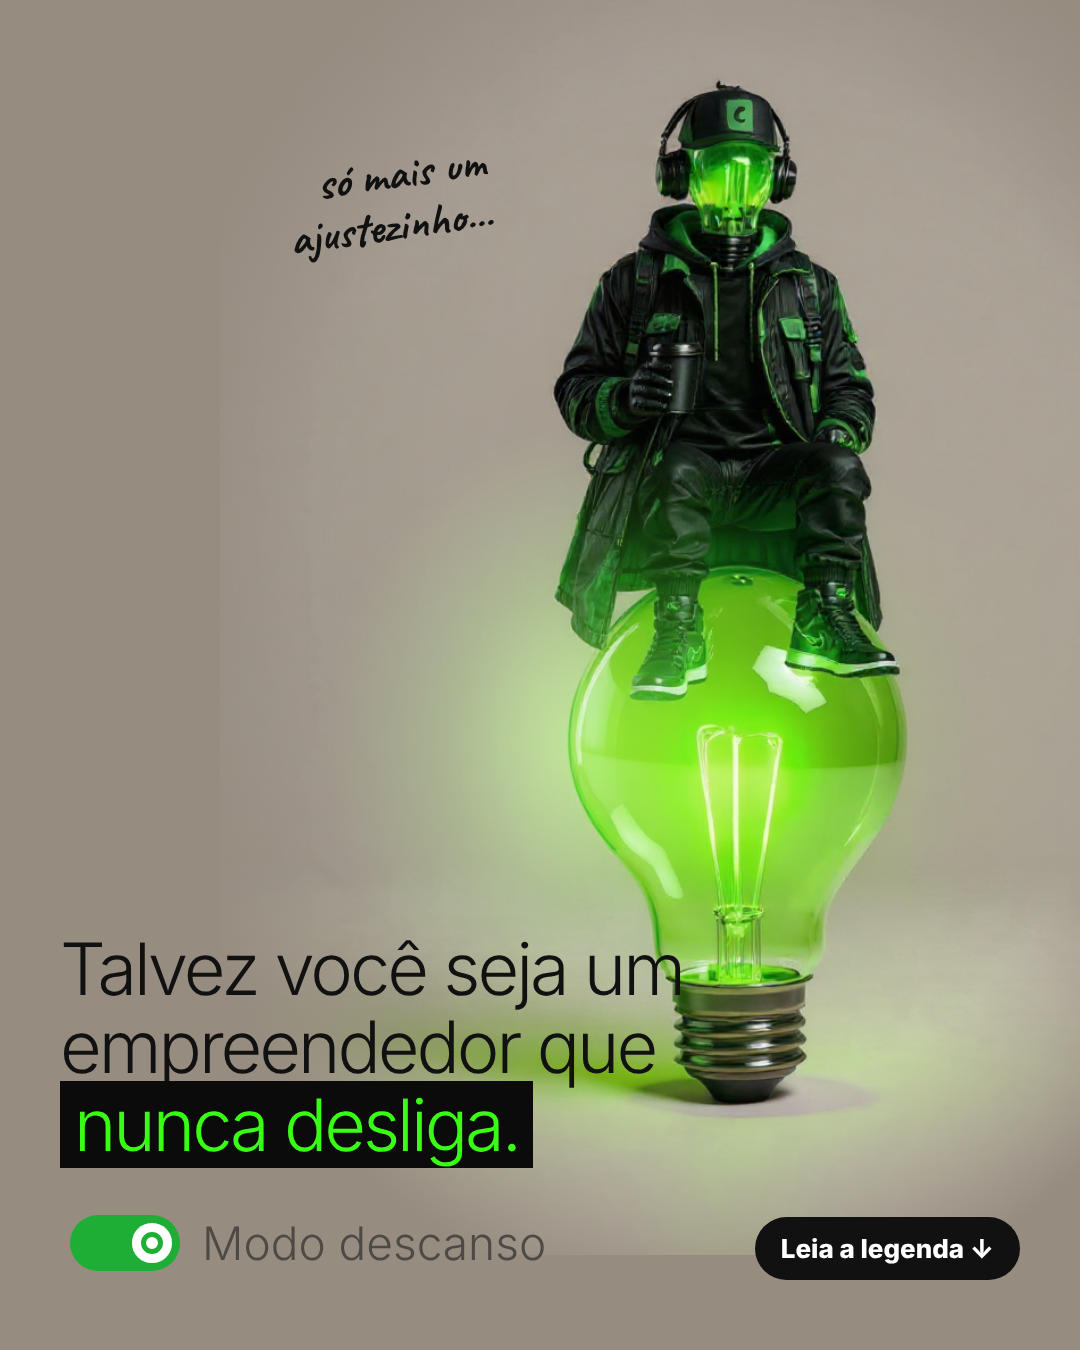
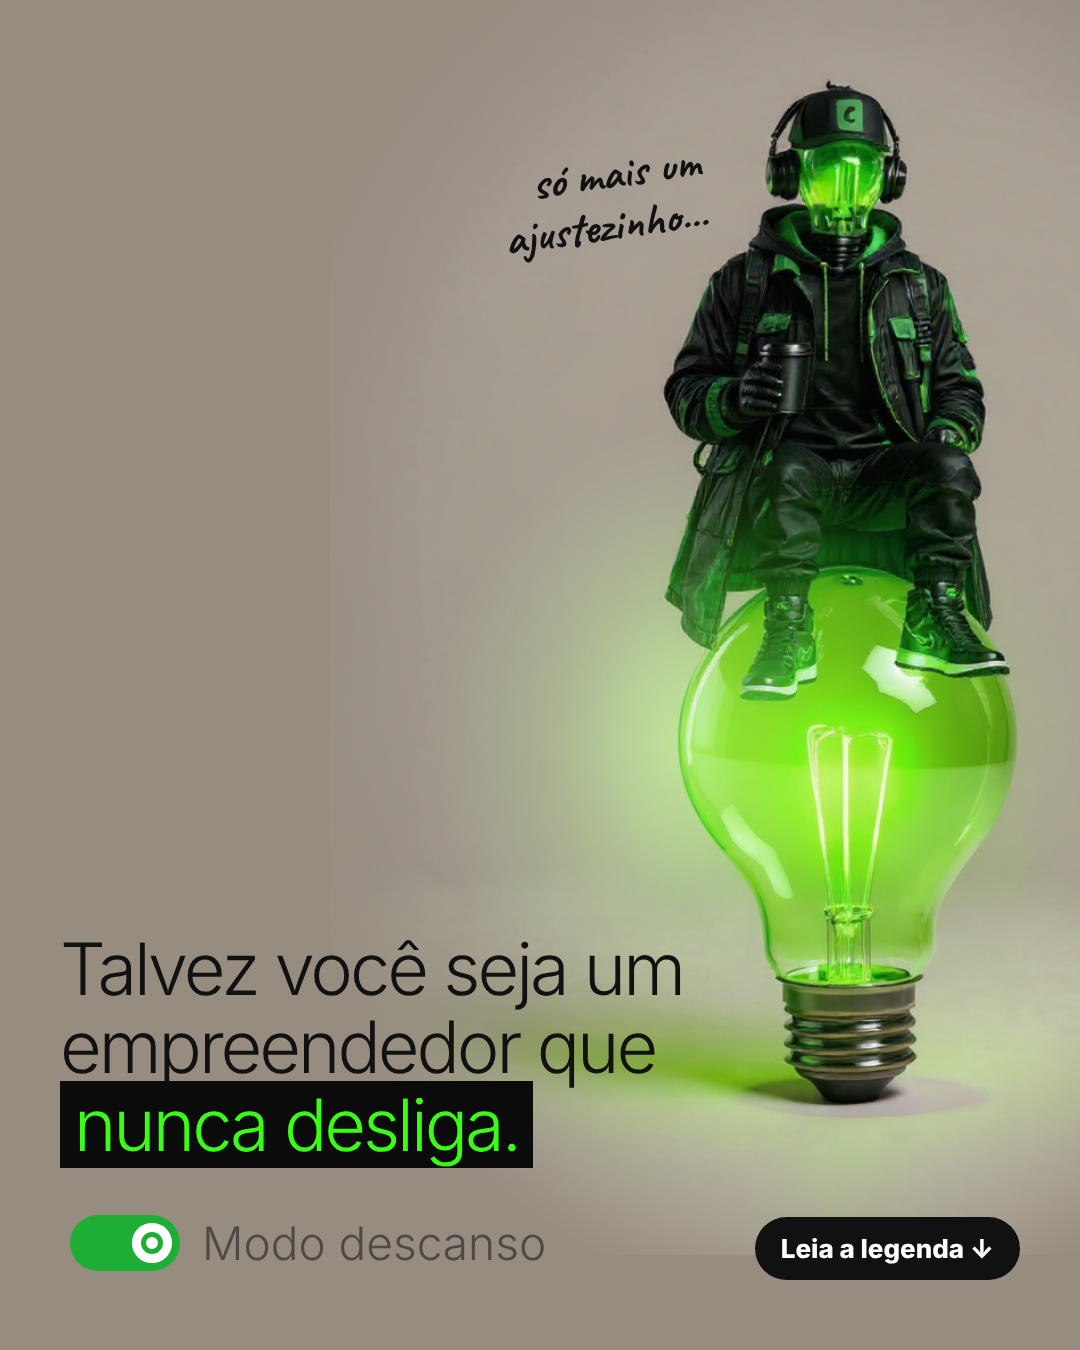
Feed estático: 4ª rodada 24, 25, 28
Claude-Session: https://claude.ai/code/session_017mkQW4f9RfZB1iSbiGkvms

Changed region(s): [[0.275, 0.0622, 0.9472, 0.84], [0.9167, 0.7467, 1.0, 0.84]]

diff --git a/banco/tpl-estatico/layout-24.html b/banco/tpl-estatico/layout-24.html
@@ -4,8 +4,8 @@
 body{margin:0}#s{width:1080px;height:1350px;position:relative;overflow:hidden;background:#e9eae8}
 .bg{position:absolute;inset:0;width:100%;height:100%;object-fit:cover}
 .tp{position:absolute;width:1800px;background:#18e0ff;display:flex;align-items:center;overflow:hidden;white-space:nowrap;box-shadow:0 8px 24px rgba(0,0,0,.25);
- background-image:repeating-linear-gradient(135deg,transparent 0 380px,#0b0b0b 380px 390px)}
+ background-image:repeating-linear-gradient(90deg,transparent 0 420px,#0b0b0b 420px 436px)}
 .tp span{font-family:A;color:#0b0b0b;letter-spacing:1px;padding-left:30px}
-.cta{position:absolute;left:50%;transform:translateX(-50%);bottom:50px;font:800 26px I8;padding:16px 26px;border-radius:40px;white-space:nowrap;z-index:9;background:#0b0b0b;color:#fff}
+.cta{position:absolute;left:50%;transform:translateX(-50%);bottom:50px;font:800 26px I8;padding:16px 26px;border-radius:40px;white-space:nowrap;z-index:9;background:#fff;color:#0b0b0b}
 </style></head><body><div id=s><img class=bg src="c24d.png" style="z-index:0"><div class=tp style="top:80px;left:-300px;transform:rotate(-22deg);height:60px;z-index:1"><i></i><span style="font-size:40px">ACESSO NEGADO&nbsp;&nbsp;✕&nbsp;&nbsp;ACESSO NEGADO&nbsp;&nbsp;✕&nbsp;&nbsp;ACESSO NEGADO&nbsp;&nbsp;✕&nbsp;&nbsp;ACESSO NEGADO&nbsp;&nbsp;✕&nbsp;&nbsp;ACESSO NEGADO&nbsp;&nbsp;✕&nbsp;&nbsp;ACESSO NEGADO&nbsp;&nbsp;✕&nbsp;&nbsp;ACESSO NEGADO&nbsp;&nbsp;✕&nbsp;&nbsp;ACESSO NEGADO&nbsp;&nbsp;✕&nbsp;&nbsp;</span></div><div class=tp style="top:330px;left:-200px;transform:rotate(18deg);height:70px;z-index:1"><i></i><span style="font-size:46px">ACESSO NEGADO&nbsp;&nbsp;✕&nbsp;&nbsp;ACESSO NEGADO&nbsp;&nbsp;✕&nbsp;&nbsp;ACESSO NEGADO&nbsp;&nbsp;✕&nbsp;&nbsp;ACESSO NEGADO&nbsp;&nbsp;✕&nbsp;&nbsp;ACESSO NEGADO&nbsp;&nbsp;✕&nbsp;&nbsp;ACESSO NEGADO&nbsp;&nbsp;✕&nbsp;&nbsp;ACESSO NEGADO&nbsp;&nbsp;✕&nbsp;&nbsp;ACESSO NEGADO&nbsp;&nbsp;✕&nbsp;&nbsp;</span></div><div class=tp style="top:620px;left:-300px;transform:rotate(-12deg);height:58px;z-index:1"><i></i><span style="font-size:38px">ACESSO NEGADO&nbsp;&nbsp;✕&nbsp;&nbsp;ACESSO NEGADO&nbsp;&nbsp;✕&nbsp;&nbsp;ACESSO NEGADO&nbsp;&nbsp;✕&nbsp;&nbsp;ACESSO NEGADO&nbsp;&nbsp;✕&nbsp;&nbsp;ACESSO NEGADO&nbsp;&nbsp;✕&nbsp;&nbsp;ACESSO NEGADO&nbsp;&nbsp;✕&nbsp;&nbsp;ACESSO NEGADO&nbsp;&nbsp;✕&nbsp;&nbsp;ACESSO NEGADO&nbsp;&nbsp;✕&nbsp;&nbsp;</span></div><img class=bg src="c24d-cut.png" style="z-index:3"><div class=tp style="top:1000px;left:-260px;transform:rotate(12deg);height:130px;z-index:5"><i></i><span style="font-size:96px">ACESSO NEGADO&nbsp;&nbsp;✕&nbsp;&nbsp;ACESSO NEGADO&nbsp;&nbsp;✕&nbsp;&nbsp;ACESSO NEGADO&nbsp;&nbsp;✕&nbsp;&nbsp;ACESSO NEGADO&nbsp;&nbsp;✕&nbsp;&nbsp;ACESSO NEGADO&nbsp;&nbsp;✕&nbsp;&nbsp;ACESSO NEGADO&nbsp;&nbsp;✕&nbsp;&nbsp;ACESSO NEGADO&nbsp;&nbsp;✕&nbsp;&nbsp;ACESSO NEGADO&nbsp;&nbsp;✕&nbsp;&nbsp;</span></div>
-<div class=cta>Leia a legenda <span style="color:#18e0ff">↓</span></div></div></body></html>
+<div class=cta>Leia a legenda ↓</div></div></body></html>

diff --git a/banco/tpl-estatico/layout-25.html b/banco/tpl-estatico/layout-25.html
@@ -16,9 +16,9 @@ body{margin:0}#s{width:1080px;height:1350px;position:relative;overflow:hidden;ba
 .t b{font-weight:400;color:#39ff14;background:#0b0b0b;padding:0 14px;-webkit-box-decoration-break:clone}
 .tg{position:absolute;left:70px;top:1215px;display:flex;align-items:center;gap:22px;font:300 46px IL;color:#4d4945}
 .sw{width:110px;height:56px;border-radius:30px;background:#1fae35;position:relative}.sw:after{content:'';position:absolute;right:8px;top:8px;width:40px;height:40px;border-radius:50%;background:#fff;box-shadow:inset 0 0 0 9px #fff,inset 0 0 0 14px #1fae35}
-.sc{position:absolute;left:285px;top:150px;font:700 46px/1.1 CA;color:#111;transform:rotate(-8deg);text-align:right}
+.sc{position:absolute;left:500px;top:150px;font:700 46px/1.1 CA;color:#111;transform:rotate(-8deg);text-align:right;z-index:5}
 .cta{background:#111;color:#fff;left:auto;right:60px;transform:none;bottom:70px}
-</style></head><body><div id=s><img src="c25d.png" style="position:absolute;left:220px;top:-90px;width:1000px;-webkit-mask-image:radial-gradient(ellipse 60% 55% at 50% 50%,#000 70%,transparent 100%)">
-<div style="position:absolute;left:330px;top:430px;width:520px;height:620px;border-radius:50%;background:radial-gradient(closest-side,rgba(120,255,60,.75),rgba(80,255,40,.25) 55%,rgba(80,255,40,0));mix-blend-mode:screen;filter:blur(10px)"></div><div class=sc>só mais um<br>ajustezinho...</div>
+</style></head><body><div id=s><img src="c25d.png" style="position:absolute;left:330px;top:-90px;width:1000px;-webkit-mask-image:radial-gradient(ellipse 60% 55% at 50% 50%,#000 70%,transparent 100%)">
+<div style="position:absolute;left:440px;top:430px;width:520px;height:620px;border-radius:50%;background:radial-gradient(closest-side,rgba(120,255,60,.75),rgba(80,255,40,.25) 55%,rgba(80,255,40,0));mix-blend-mode:screen;filter:blur(10px)"></div><div class=sc>só mais um<br>ajustezinho...</div>
 <div class=t>Talvez você seja um<br>empreendedor que<br><b>nunca desliga.</b></div>
 <div class=tg><div class=sw></div>Modo descanso</div><div class=cta>Leia a legenda ↓</div></div></body></html>

diff --git a/banco/tpl-estatico/layout-28.html b/banco/tpl-estatico/layout-28.html
@@ -14,7 +14,7 @@ body{margin:0}#s{width:1080px;height:1350px;position:relative;overflow:hidden;ba
 .m{position:absolute;left:30px;top:40px;font:700 italic 420px/1 PF;color:#9dff3c;z-index:3}
 .e{position:absolute;left:420px;top:150px;font:400 300px/1 A;color:#f2f2f2;letter-spacing:-2px}
 .box{position:absolute;right:70px;top:880px;padding:16px 26px;border:1px solid rgba(255,255,255,.5);background:rgba(255,255,255,.12);backdrop-filter:blur(6px);color:#fff;font:300 40px/1.1 IL;z-index:3}
-.box b{font-weight:300;color:#9dff3c}.box i{font:700 50px S;color:#9dff3c;font-style:normal}
+.box b{font-weight:800;font-family:I8;color:#9dff3c}.box i{font:700 50px S;color:#9dff3c;font-style:normal}
 .cta{background:#9dff3c;color:#0b2a10}
-</style></head><body><div id=s><img src="c28.png" style="position:absolute;left:0;top:230px;width:1080px;-webkit-mask-image:linear-gradient(transparent,#000 160px)"><div class=e>EDOS</div><img src="c28-cut.png" style="position:absolute;left:0;top:230px;width:1080px"><div class=m>M</div>
+.tt{position:absolute;left:0;right:0;top:120px;display:flex;justify-content:center;align-items:baseline;z-index:3}.mm{font:700 italic 363px/1 PF;color:#9dff3c;margin-right:-30px}.ee{font:400 300px/1 A;color:#f2f2f2;letter-spacing:-2px}</style></head><body><div id=s><img src="c28.png" style="position:absolute;left:0;top:230px;width:1080px;-webkit-mask-image:linear-gradient(transparent,#000 160px)"><img src="c28-cut.png" style="position:absolute;left:0;top:230px;width:1080px"><div class=tt><span class=mm>M</span><span class=ee>EDOS</span></div>
 <div class=box>QUE <b>TODO<br>APOSTADOR</b> TEM</div><div class=cta>Leia a legenda ↓</div></div></body></html>

diff --git a/conhecimento/agentes/designer/22-feed-estatico-quebra-de-padrao.md b/conhecimento/agentes/designer/22-feed-estatico-quebra-de-padrao.md
@@ -105,3 +105,4 @@ Arquivos em `banco/tpl-estatico/` (`ref-N`, `layout-N.html`, `teste-N.png`).
 - Ajustes do dono (18/11/2026): **26 DESCARTADA** (ficou bagunçada mesmo copiada certo: palavras espalhadas demais). 24: as fitas são FAIXAS de verdade (grossas e finas), todas com o texto repetido (ex.: "ACESSO NEGADO ✕"), umas atrás e outras na frente do mascote, nunca no rosto. 25: o mascote precisa ser GRANDE e evidente; destaque do título em verde neon sobre marca-texto preto (verde claro não lê no bege). 27: o texto não pode perder palavra ("O SEGREDO DOS VÍDEOS / VIRAIS"); roupa do mascote igual à dele (calça social preta, nada de jeans da referência). 28: letra manuscrita do título alinhada na altura das outras letras; a ideia de TIRAR A MÁSCARA tem que ficar clara.
 - 2ª rodada: 24 com 4 fitas só (como a referência); 25 mascote sentado firme e centralizado na lâmpada, frase manuscrita perto da cabeça como fala; 27 aprovada; 28 M encostado no EDOS (não por cima). Máscara saindo do rosto: a IA não consegue fazer (6 tentativas), pendente de decisão do dono.
 - 3ª rodada: 24 listras pretas das faixas BEM finas; 25 luz da lâmpada mais forte (brilho verde) e fala perto do rosto; 28 M maior que o resto da palavra e encostado; caixa com UMA fonte só, destaque só em "TODO APOSTADOR" na cor da marca.
+- 4ª rodada: 24 listras pretas com a MESMA largura em todas as faixas (16px), botão branco com texto preto; 25 arte puxada para a direita para o texto não encostar na lâmpada, fala ao lado do rosto; 28 letra manuscrita do MESMO tamanho (altura das maiúsculas) do resto da palavra, mesma linha de base; destaque em negrito.
